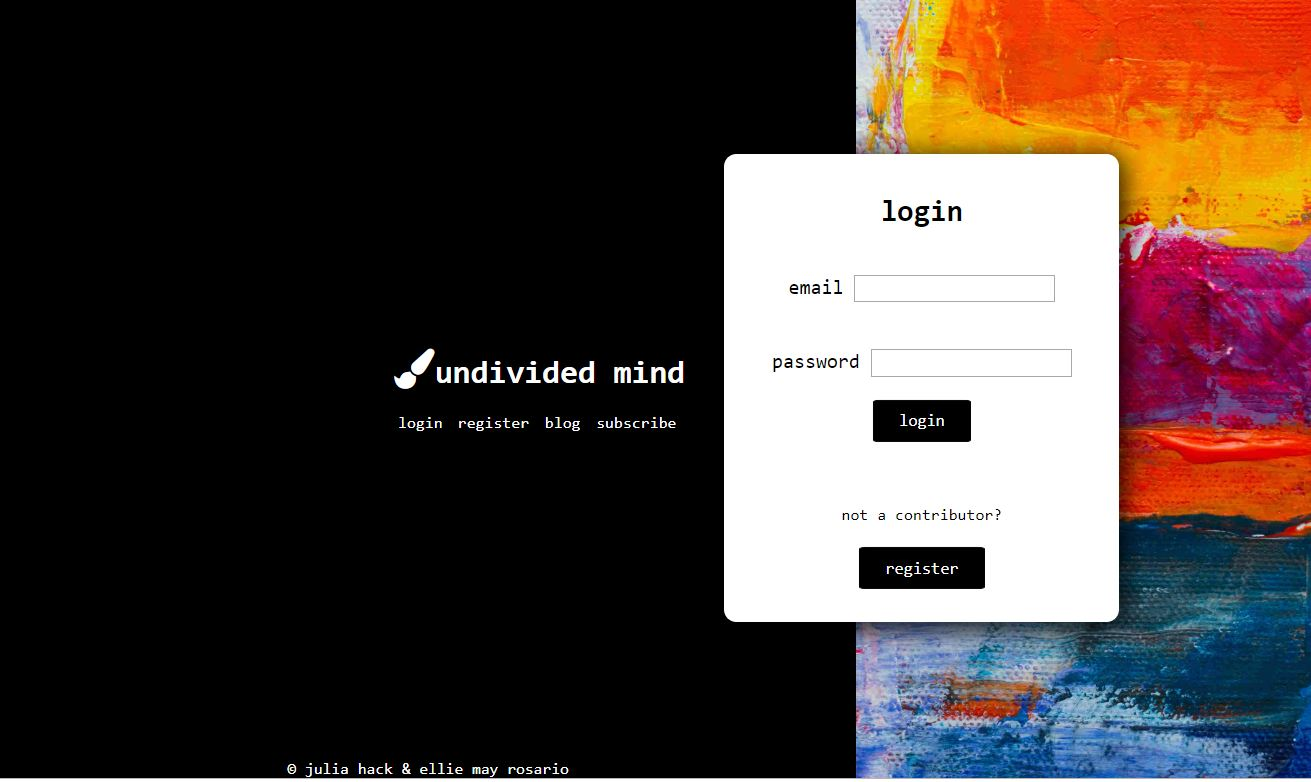
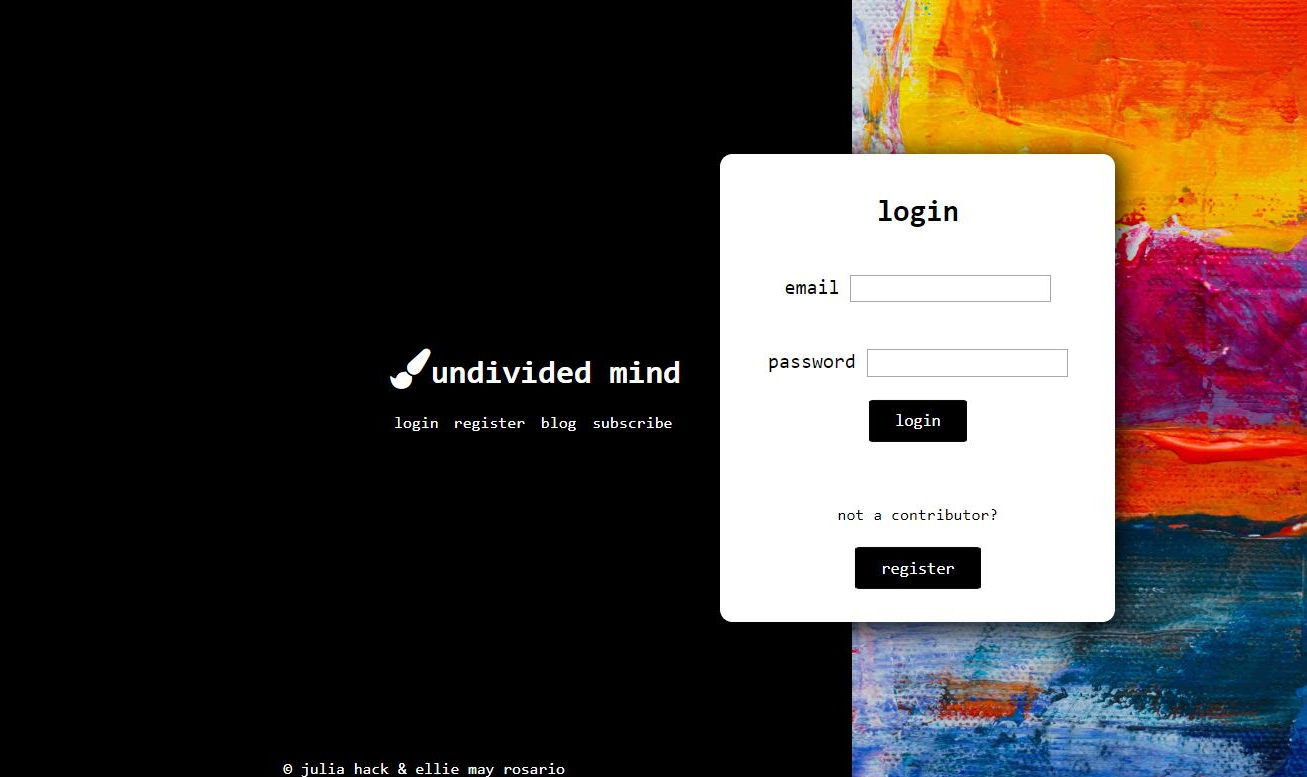
added lots, mainly css

diff --git a/web.html b/web.html
@@ -31,11 +31,72 @@
         
             </header>
         
-            <main>
+            <main class="web-main-flexbox">
+                
+                <section class="web-undivided-mind-section web-section-flex">
+                    <a href="https://undivided-mind.herokuapp.com/" target="_blank"><img src="assets/images/web-screenshots/undivided-mind-screenshot.JPG" alt="screenshot of undivided mind node.js project" class="web-screenshot"></a>
+                    
+                    <article>
+                        <p>This app was built using Node.js, Express, and MongoDB Atlas.  A user is able to subscribe to a newsletter, register, log in, and add a post to the blog page from their personal dashboard.  Register and login functionality was added using Passport.js. Heroku was used for deployment.</p>
+
+                        <p>The user interface was originally created for an earlier SAIT course about creating static websites.  “Undivided mind” is a concept for an online community where artists can share their work, particularly those who wish to harmonize their analytical and creative sides.  This concept was a collaborative effort between myself and a friend, who is credited on the site. </p>
+                                
+                        <a href="https://github.com/jchack1/node-final-project" target="_blank">See the code for my Node.js project on Github</a> 
+                                
+                        <p>(Note: There have been changes to the code since it was deployed, mainly to CSS and package.json.)</p>
+                    </article>
+                </section>
+                
+                <section class="web-plant-site-section web-section-flex">
+                    <a href="https://keen-kilby-8d90d6.netlify.com/" target="_blank"><img src="assets/images/web-screenshots/plant-site-screenshot.JPG" alt="screenshot of plant website" class="web-screenshot"></a>
+
+                    <article>
+                        <p>I created this site in order to practice my HTML, CSS, and JavaScript skills.  I chose to showcase my plants so I could practice creating galleries using CSS flexbox and grid, and also because the plants are visually appealing and add a pop of colour to the site. </p>
+                            
+                        <p>A user can click on the images, toggling text to appear over the image.  I created different designs and functionality for desktop, tablet and mobile screen sizes, so please view the site at all sizes to get the full picture of what I can do with basic HTML, CSS, and JavaScript. </p>
+                        
+                        <a href="https://github.com/jchack1/my-plant-website" target="_blank">See the code for my plant site on Github</a>
+                    </article>
+                </section>
+
+                <section class="web-first-portfolio-section web-section-flex">
+                    <a href="https://hungry-bardeen-c3e496.netlify.com/" target="_blank"><img src="assets/images/web-screenshots/first-portfolio-screenshot.JPG" alt="screenshot of first portfolio site" class="web-screenshot"></a>
+
+                    <article>
+                        <p>This is my first portfolio site from an early course in my SAIT program. I chose to display my artwork and photography. To make it look like an artist’s website I chose a watercolor piece with paint splatters as the header image, as well as a minimal and classy font.</p>
+                        
+                        <a href="https://github.com/jchack1/CPNT-260-final-project-portfolio" target="_blank">See the code for my first portfolio site on Github</a>
+                    </article>
+
+                    
+                </section>
+
+                <section class="web-jekyll-site-section web-section-flex">
+                    <a href="https://boring-mcnulty-bf8b5c.netlify.com/" target="_blank"><img src="assets/images/web-screenshots/jekyll-blog-screenshot.JPG" alt="jekyll site screenshot" class="web-screenshot"></a>
+                    
+                    <article>
+                        <p>I recreated my art and photography portfolio site using Jekyll.  I chose the “minimal” theme and tweaked the CSS to improve the layout and make the site more responsive. Jekyll is great for blogs, and creating the blog posts and “travel” collection was a lot of fun.  I blogged my experience learning Jekyll and creating my site, so read through the blog to learn more about what it is like to create your first site with Jekyll.</p>
+                        <a href="https://github.com/jchack1/jekyll-blog" target="_blank">See the code for my Jekyll site on Github</a>
+                    </article>
+                </section>
+
+                <section class="web-pokemon-section web-section-flex">
+                    <a href="https://zen-aryabhata-199c38.netlify.com/" target="_blank"><img src="assets/images/web-screenshots/pokemon-api-screenshot.JPG" alt="pokemon api assignment screenshot" class="web-screenshot"></a>
+                    <article>
+                        <p>This app was created in order to practice fetching data from an API using JavaScript.  Like many members of my SAIT class I chose the pokemon API, as it is a very straightforward API to get started with.  A user can click on a card to reveal more information about that particular pokemon. I hope to add more functionality to this app in the future, but building it was an excellent introduction to using APIs. </p>
+                        <a href="https://github.com/jchack1/javascript-assignment-3" target="_blank">See the code for my pokemon API project on Github</a>
+                    </article>
+                    
+                </section>
+
             </main>
         
             <footer>
-                <p><a href="https://github.com/jchack1"><i class="fa fa-github-square"></i></a> <a href="#"><i class="fa fa-linkedin"></i></a> <a href="https://www.instagram.com/juliachack/?hl=en"><i class="fa fa-instagram"></i></a></p>
+                <p>
+                    <a href="https://github.com/jchack1"><i class="fa fa-github-square"></i></a> 
+                    <a href="https://www.linkedin.com/in/juliahack"><i class="fa fa-linkedin"></i></a> 
+                    <a href="https://www.instagram.com/juliachack/?hl=en"><i class="fa fa-instagram"></i></a>
+                </p>
                 <p>&copy; Julia Hack</p>
             </footer>
             <script src="script.js"></script>

diff --git a/art-photos.html b/art-photos.html
@@ -34,10 +34,74 @@
             </header>
         
             <main>
+                <h2>Drawing</h2>
+                <section class="art-photos-section drawing-section">
+                        <!-- square -->
+                        <img src="assets/images/art-photos/art/drawing/drawings-square/university_cezanne-square.JPG" alt="cezanne style drawing">
+                        <img src="assets/images/art-photos/art/drawing/drawings-square/duck_bioart-square.JPG" alt="duck drawing">
+                        <img src="assets/images/art-photos/art/drawing/drawings-square/still_life4_cup-square.JPG" alt="still life cup">
+                        <img src="assets/images/art-photos/art/drawing/drawings-square/vertebrae_study_bioart-square.JPG" alt="vertebrae drawing">
+                        <img src="assets/images/art-photos/art/drawing/drawings-square/wildflower_bioart-square.JPG" alt="wildflower drawing">
+                        <img src="assets/images/art-photos/art/drawing/drawings-square/window_reflection_night-square.JPG" alt="conte window drawing">
+                    
+                    <!-- regular aspect ratio -->
+                    <img src="assets/images/art-photos/art/drawing/university_cezanne.JPG" alt="cezanne style drawing" class="invisible">
+                    <img src="assets/images/art-photos/art/drawing/duck_bioart.JPG" alt="duck drawing" class="invisible">
+                    <img src="assets/images/art-photos/art/drawing/still_life4_cup.JPG" alt="still life cup" class="invisible">
+                    <img src="assets/images/art-photos/art/drawing/vertebrae_study_bioart.JPG" alt="vertebrae drawing" class="invisible">
+                    <img src="assets/images/art-photos/art/drawing/wildflower_bioart.JPG" alt="wildflower drawing" class="invisible">
+                    <img src="assets/images/art-photos/art/drawing/window_reflection_night.JPG" alt="conte window drawing" class="invisible">
+                </section>
+
+                <h2>Printmaking</h2>
+                <section class="art-photos-section printmaking-section">
+                        <!-- square -->
+                        <img src="assets/images/art-photos/art/printmaking/prints-square/cells_silkscreen-sqaure.JPG" alt="silkscreen of cells">
+                        <img src="assets/images/art-photos/art/printmaking/comparison_etching.JPG" alt="comparison etching">
+                        <img src="assets/images/art-photos/art/printmaking/prints-square/lighthouse_silkscreen-square.JPG" alt="lighthouse silkscreen">
+                        <img src="assets/images/art-photos/art/printmaking/shell_part2_etching.JPG" alt="shell etching">
+                        <img src="assets/images/art-photos/art/printmaking/prints-square/drypointportrait_stage3edit-square.JPG" alt="drypoint portrait etching">
+
+                    <!-- regular aspect ratio -->
+                    <img src="assets/images/art-photos/art/printmaking/cells_silkscreen.JPG" alt="silkscreen of cells" class="invisible">
+                    <img src="assets/images/art-photos/art/printmaking/comparison_etching.JPG" alt="comparison etching" class="invisible">
+                    <img src="assets/images/art-photos/art/printmaking/lighthouse_silkscreen.JPG" alt="lighthouse silkscreen" class="invisible">
+                    <img src="assets/images/art-photos/art/printmaking/shell_part2_etching.JPG" alt="shell etching" class="invisible">
+                    <img src="assets/images/art-photos/art/printmaking/drypointportrait_stage3edit.JPG" alt="drypoint portrait etching" class="invisible">
+                </section>
+
+                <h2>Photography</h2>
+                <section class="art-photos-section drawing-section">
+                    <!-- square -->
+                    <img src="assets/images/art-photos/photography/photos-square/dragonfly-square.jpg" alt="dragonfly">
+                    <img src="assets/images/art-photos/photography/photos-square/IMG_0658-square.JPG" alt="reflection photo">
+                    <img src="assets/images/art-photos/photography/photos-square/IMG_1189-square.JPG" alt="red lillies">
+                    <img src="assets/images/art-photos/photography/photos-square/IMG_4165_edit-square.JPG" alt="harajuku road">
+                    <img src="assets/images/art-photos/photography/photos-square/IMG_4255_edit-square.JPG" alt="kyoto gates">
+                    <img src="assets/images/art-photos/photography/photos-square/IMG_4652roadedit-square.JPG" alt="highway 93">
+                    <img src="assets/images/art-photos/photography/photos-square/IMG_4724editcanmoretrees-square.JPG" alt="canmore trees">
+
+
+                    <!-- regular aspect ratio -->
+                    <img src="assets/images/art-photos/photography/dragonfly.jpg" alt="dragonfly" class="invisible">
+                    <img src="assets/images/art-photos/photography/IMG_0658.JPG" alt="reflection photo" class="invisible">
+                    <img src="assets/images/art-photos/photography/IMG_1189.JPG" alt="red lillies" class="invisible">
+                    <img src="assets/images/art-photos/photography/IMG_4165_edit.JPG" alt="harajuku road" class="invisible">
+                    <img src="assets/images/art-photos/photography/IMG_4255_edit.JPG" alt="kyoto gates" class="invisible">
+                    <img src="assets/images/art-photos/photography/IMG_4652roadedit.JPG" alt="highway 93" class="invisible">
+                    <img src="assets/images/art-photos/photography/IMG_4724editcanmoretrees.JPG" alt="canmore trees" class="invisible">
+                </section>
+
+
+
+
             </main>
         
             <footer>
-                <p><a href="https://github.com/jchack1"><i class="fa fa-github-square"></i></a> <a href="#"><i class="fa fa-linkedin"></i></a> <a href="https://www.instagram.com/juliachack/?hl=en"><i class="fa fa-instagram"></i></a></p>
+                <p>
+                    <a href="https://github.com/jchack1"><i class="fa fa-github-square"></i></a> 
+                    <a href="https://www.linkedin.com/in/juliahack"><i class="fa fa-linkedin"></i></a> 
+                    <a href="https://www.instagram.com/juliachack/?hl=en"><i class="fa fa-instagram"></i></a></p>
                 <p>&copy; Julia Hack</p>
             </footer>
             <script src="script.js"></script>

diff --git a/assets/css/styles.css b/assets/css/styles.css
@@ -32,10 +32,10 @@ h1, h2, h3 {
     
 
     display: grid;
-    grid-template-columns: 1fr 3fr;
+    grid-template-columns: 1fr 5fr;
     grid-template-rows: 1fr 3fr 1fr;
 
-    height: 90vh;
+    height: 85vh;
 }
 
 #home-julia-logo{
@@ -127,9 +127,12 @@ h1, h2, h3 {
 
 #home-button a:hover{
     /* color: #60bdb3; */
-    color: hsla(213, 23%, 48%, 0.95);
+    /* color: hsla(213, 23%, 48%, 0.95); */
+    color: hsla(249, 80%, 56%, 1);
     /* border: 2px solid #60bdb3; */
-    border: 2px solid hsla(213, 23%, 48%, 0.95);
+    /* border: 2px solid hsla(213, 23%, 48%, 0.95); */
+    border: 2px solid hsla(249, 80%, 56%, 1);
+    ;
     transition: ease-in-out 0.3s;
     
 }
@@ -182,7 +185,107 @@ h1, h2, h3 {
     background-size: 30px;
     display: none;
     align-self: flex-end;
+    margin: 15px;
 }
+
+/* web dev page styling */
+
+.web-main-flexbox{
+    display: flex;
+    flex-direction: column;
+    justify-content: center;
+
+    /* possible color option */
+    /* background: black;
+    color: white; */
+}
+
+.web-section-flex{
+    display: flex;
+    justify-content: center;
+    align-items: center;
+    margin: 5vmin;
+}
+
+.web-screenshot{
+    width: 60vw;
+    border-radius: 10px;
+    border: 1px solid rgba(28,28,28,0.4);
+    box-shadow: 0px 3px 28px -3px rgba(28,28,28,1);
+
+}
+
+.web-screenshot:hover{
+    transform: scale(1.05);
+    transition: 0.2s ease-in-out;
+}
+
+.web-section-flex > article{
+    max-width: 40ch;
+    margin: 5vmin;
+}
+
+.web-section-flex > article > a{
+    text-decoration: none;
+    color: hsla(249, 80%, 56%, 1);
+}
+
+.web-section-flex > article > a:hover{
+    color: hsla(249, 85%, 70%, 1);
+}
+
+/* media query smaller screen */
+
+footer{
+    background: black;
+    display: flex;
+    flex-direction: column;
+    justify-content: space-around;
+    align-items: center;
+    color: white;
+    height: 15vh;
+    margin-bottom: 0;
+}
+
+footer > p{
+    margin: 1vmin;
+}
+
+footer > p > a{
+    color: white;
+    font-size: 1.5rem;
+    font-weight: lighter;
+}
+
+footer > p > a:hover{
+    color: hsla(249, 80%, 56%, 1);
+}
+
+
+/* art and photos page */
+
+.art-photos-section{
+    width: 90vw;
+    margin: 0 auto;
+    display: flex;
+    flex-wrap: wrap;
+    justify-content: space-evenly;
+    
+    
+}
+
+.art-photos-section > img{
+    width: 300px; 
+    /* width: auto; */
+    margin: 3vmin;
+}
+
+.invisible{
+    display: none;
+}
+
+
+
 
 @media (max-width: 900px){
     nav {
@@ -231,6 +334,41 @@ h1, h2, h3 {
 
     .header{
         grid-template-columns: 15vw 3fr;
+        grid-template-rows: 1fr 4fr 1fr;
+    }
 
+    /* web page flexbox small screen */
+
+    .web-section-flex{
+        flex-direction: column;
+    }
+
+    .web-section-flex > article{
+        max-width: 70ch;
+        /* margin: 5vmin; */
+    }
+
+    .web-screenshot{
+        width: 80vw;
+    }
+}
+
+@media (max-width: 400px){
+    .header{
+        grid-template-columns: 15vw 3fr;
+        grid-template-rows: 1fr 4fr 1fr;
+        height: 90vh;
+    }
+
+    #home-intro{
+        align-self: center;
+    }
+
+    #home-button a{
+        padding: 3vmin;
+    }
+
+    footer{
+        height: 10vh;
     }
 }

diff --git a/design.html b/design.html
@@ -37,9 +37,12 @@
             </main>
         
             <footer>
-                <p><a href="https://github.com/jchack1"><i class="fa fa-github-square"></i></a> <a href="#"><i class="fa fa-linkedin"></i></a> <a href="https://www.instagram.com/juliachack/?hl=en"><i class="fa fa-instagram"></i></a></p>
-                <p>&copy; Julia Hack</p>
-            </footer>
+                    <p>
+                        <a href="https://github.com/jchack1"><i class="fa fa-github-square"></i></a> 
+                        <a href="https://www.linkedin.com/in/juliahack"><i class="fa fa-linkedin"></i></a> 
+                        <a href="https://www.instagram.com/juliachack/?hl=en"><i class="fa fa-instagram"></i></a>
+                    </p>
+                    <p>&copy; Julia Hack</p>
             <script src="script.js"></script>
 
 </body>

diff --git a/blog.html b/blog.html
@@ -37,7 +37,10 @@
             </main>
         
             <footer>
-                <p><a href="https://github.com/jchack1"><i class="fa fa-github-square"></i></a> <a href="#"><i class="fa fa-linkedin"></i></a> <a href="https://www.instagram.com/juliachack/?hl=en"><i class="fa fa-instagram"></i></a></p>
+                <p>
+                    <a href="https://github.com/jchack1"><i class="fa fa-github-square"></i></a> 
+                    <a href="https://www.linkedin.com/in/juliahack"><i class="fa fa-linkedin"></i></a> 
+                    <a href="https://www.instagram.com/juliachack/?hl=en"><i class="fa fa-instagram"></i></a></p>
                 <p>&copy; Julia Hack</p>
             </footer>
             <script src="script.js"></script>

diff --git a/contact.html b/contact.html
@@ -39,7 +39,10 @@
             </main>
         
             <footer>
-                <p><a href="https://github.com/jchack1"><i class="fa fa-github-square"></i></a> <a href="#"><i class="fa fa-linkedin"></i></a> <a href="https://www.instagram.com/juliachack/?hl=en"><i class="fa fa-instagram"></i></a></p>
+                <p>
+                    <a href="https://github.com/jchack1"><i class="fa fa-github-square"></i></a> 
+                    <a href="https://www.linkedin.com/in/juliahack"><i class="fa fa-linkedin"></i></a> 
+                    <a href="https://www.instagram.com/juliachack/?hl=en"><i class="fa fa-instagram"></i></a></p>
                 <p>&copy; Julia Hack</p>
             </footer>
             <script src="script.js"></script>

diff --git a/index.html b/index.html
@@ -43,9 +43,12 @@
     </main>
 
     <footer>
-        <p><a href="https://github.com/jchack1"><i class="fa fa-github-square"></i></a> <a href="#"><i class="fa fa-linkedin"></i></a> <a href="https://www.instagram.com/juliachack/?hl=en"><i class="fa fa-instagram"></i></a></p>
+        <p>
+            <a href="https://github.com/jchack1"><i class="fa fa-github-square"></i></a> 
+            <a href="https://www.linkedin.com/in/juliahack"><i class="fa fa-linkedin"></i></a> 
+            <a href="https://www.instagram.com/juliachack/?hl=en"><i class="fa fa-instagram"></i></a>
+        </p>
         <p>&copy; Julia Hack</p>
-    </footer>
     <script src="script.js"></script>
 </body>
 </html>

diff --git a/about.html b/about.html
@@ -36,7 +36,10 @@
     </main>
         
      <footer>
-        <p><a href="https://github.com/jchack1"><i class="fa fa-github-square"></i></a> <a href="#"><i class="fa fa-linkedin"></i></a> <a href="https://www.instagram.com/juliachack/?hl=en"><i class="fa fa-instagram"></i></a></p>
+        <p>
+            <a href="https://github.com/jchack1"><i class="fa fa-github-square"></i></a> 
+            <a href="https://www.linkedin.com/in/juliahack"><i class="fa fa-linkedin"></i></a> 
+            <a href="https://www.instagram.com/juliachack/?hl=en"><i class="fa fa-instagram"></i></a></p>
         <p>&copy; Julia Hack</p>
     </footer>
     <script src="script.js"></script>
